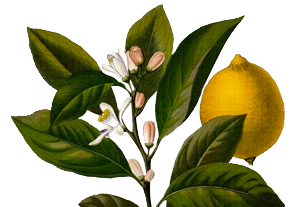
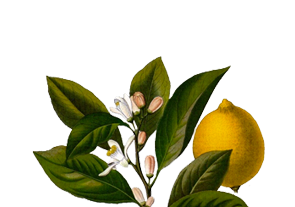
happy with header

diff --git a/app/assets/stylesheets/v2/styles.sass b/app/assets/stylesheets/v2/styles.sass
@@ -3,8 +3,10 @@ html
 
 body
   height: auto
-  box-shadow: 0 0 10px rgba(0,0,0,0.5)
-  margin: 1em
+  // box-shadow: 0 0 10px rgba(0,0,0,0.5)
+
+  @media #{$medium}
+    margin: 1em
 
 figure
   margin: 0
@@ -16,35 +18,95 @@ figure
   left: 0
 
 #top-nav
-  background: black
-  padding: 2em
+  padding: 2em 3em
+  margin-bottom: 3em
+
+  @media #{$medium}
+    margin-bottom: 6em
 
   li
     float: left
 
   a
     display: block
+    line-height: (50px / 2)
+    margin-right: 6em
+    font-size: 0.875em
+    color: #aaa
+    @include transition(all 0.3s)
+    position: relative
+
+    strong
+      display: block
+      text-transform: uppercase
+      color: white
+      font-weight: bold
+
+  a:not(#mini-logo)
+    padding: 3px 0
+
+    &:before
+      content: ""
+      position: absolute
+      top: 10px
+      left: -16px
+      height: 11px
+      width: 9px
+      border: 3px solid $light-purple
+      border-width: 3px 0px
+      // @include transform(rotate(45deg))
+      @include transition(border-color 0.2s)
+
+    &:hover
+      &:before
+        border-top-color: $light-purple
+        border-right-color: $pink
+        border-bottom-color: $green
+
+  li:nth-child(2) a:not(#mini-logo):before
+    border-width: 0 3px 0 0
+    // border-color: $pink
+
+  li:nth-child(3) a:not(#mini-logo):before
+    border-width: 3px 3px 0 0
+
+  li:nth-child(4) a:not(#mini-logo):before
+    border-width: 3px 3px 3px 0
+    // border-color: $green
+
+  #mini-logo
     line-height: 56px
 
 #mini-logo
   border: 3px solid white
-  height: 56px
-  width: 56px
-  padding: 1em
+
+  img
+    @include transition(all 0.3s)
+    height: 50px
+    width: 50px
+    padding: 1em
+    display: block
+
+  &:hover
+    @include transform(rotate(90deg))
+
+    img
+      @include transform(rotate(-90deg))
 
 #header
-  background: black image-url("a.svg") 3em center no-repeat
+  background: black image-url("ae-dark.svg") center bottom no-repeat
+  background-size: cover
   position: relative
-  padding: 3em 0 16em
+  padding-bottom: 16em
 
   @media #{$medium}
-    padding: 6em 0 24em
+    padding-bottom: 24em
 
   #logo
     width: 250px
 
 #content
-  padding: 3em (3rem - $column-gutter / 2)
+  padding: $column-gutter ($column-gutter / 2)
   background: #f0f0f0
 
 $fox-width: 600px
@@ -63,6 +125,7 @@ $fox-width: 600px
 .project
   background: black
   padding: 1em
+  margin-bottom: $column-gutter
   color: white
 
   .category
@@ -85,6 +148,7 @@ $fox-width: 600px
     box-shadow: 0 0 10px rgba(0,0,0,0.2)
     // border-radius: 2px
     position: relative
+    height: 140px
 
     h2
       font-weight: bold
@@ -113,3 +177,9 @@ $fox-width: 600px
 
 #benefitsy
   background: #00c097
+
+#spaceship
+  background: #1b2947
+
+#love-devpost
+  background: #e8c088

diff --git a/app/assets/stylesheets/variables.sass b/app/assets/stylesheets/variables.sass
@@ -1,2 +1,4 @@
 $purple: #8B51F0
 $light-purple: #8C66F2
+$pink: #f05155
+$green: #15ffbc

diff --git a/app/controllers/v2/home_controller.rb b/app/controllers/v2/home_controller.rb
@@ -17,6 +17,20 @@ module V2
           "website",
           "lemon.png",
           "benefitsy"
+        ],
+        [
+          "Spaceship",
+          "A better way to send your packages.",
+          "website",
+          "spaceship.png",
+          "spaceship"
+        ],
+        [
+          "Work at Devpost",
+          "A one-page site showcasing the dev life at Devpost.",
+          "website",
+          "love_devpost.png",
+          "love-devpost"
         ]
       ]
 
